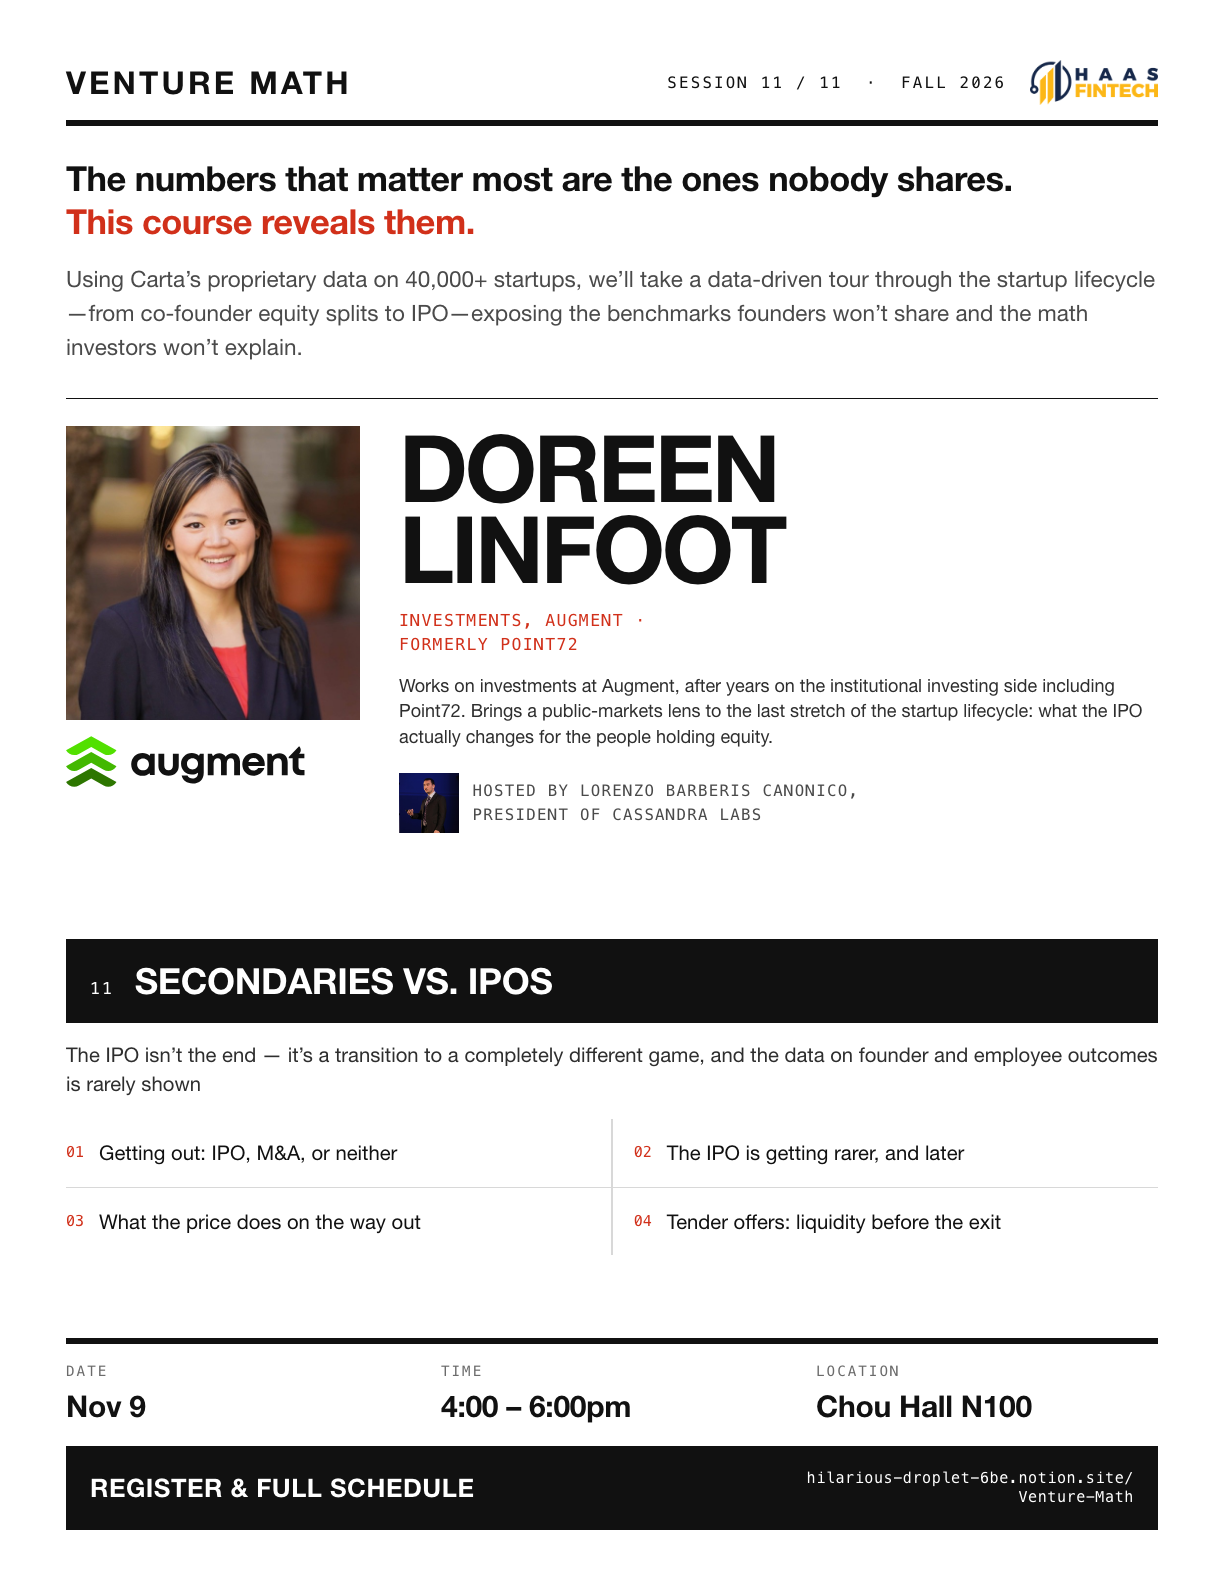
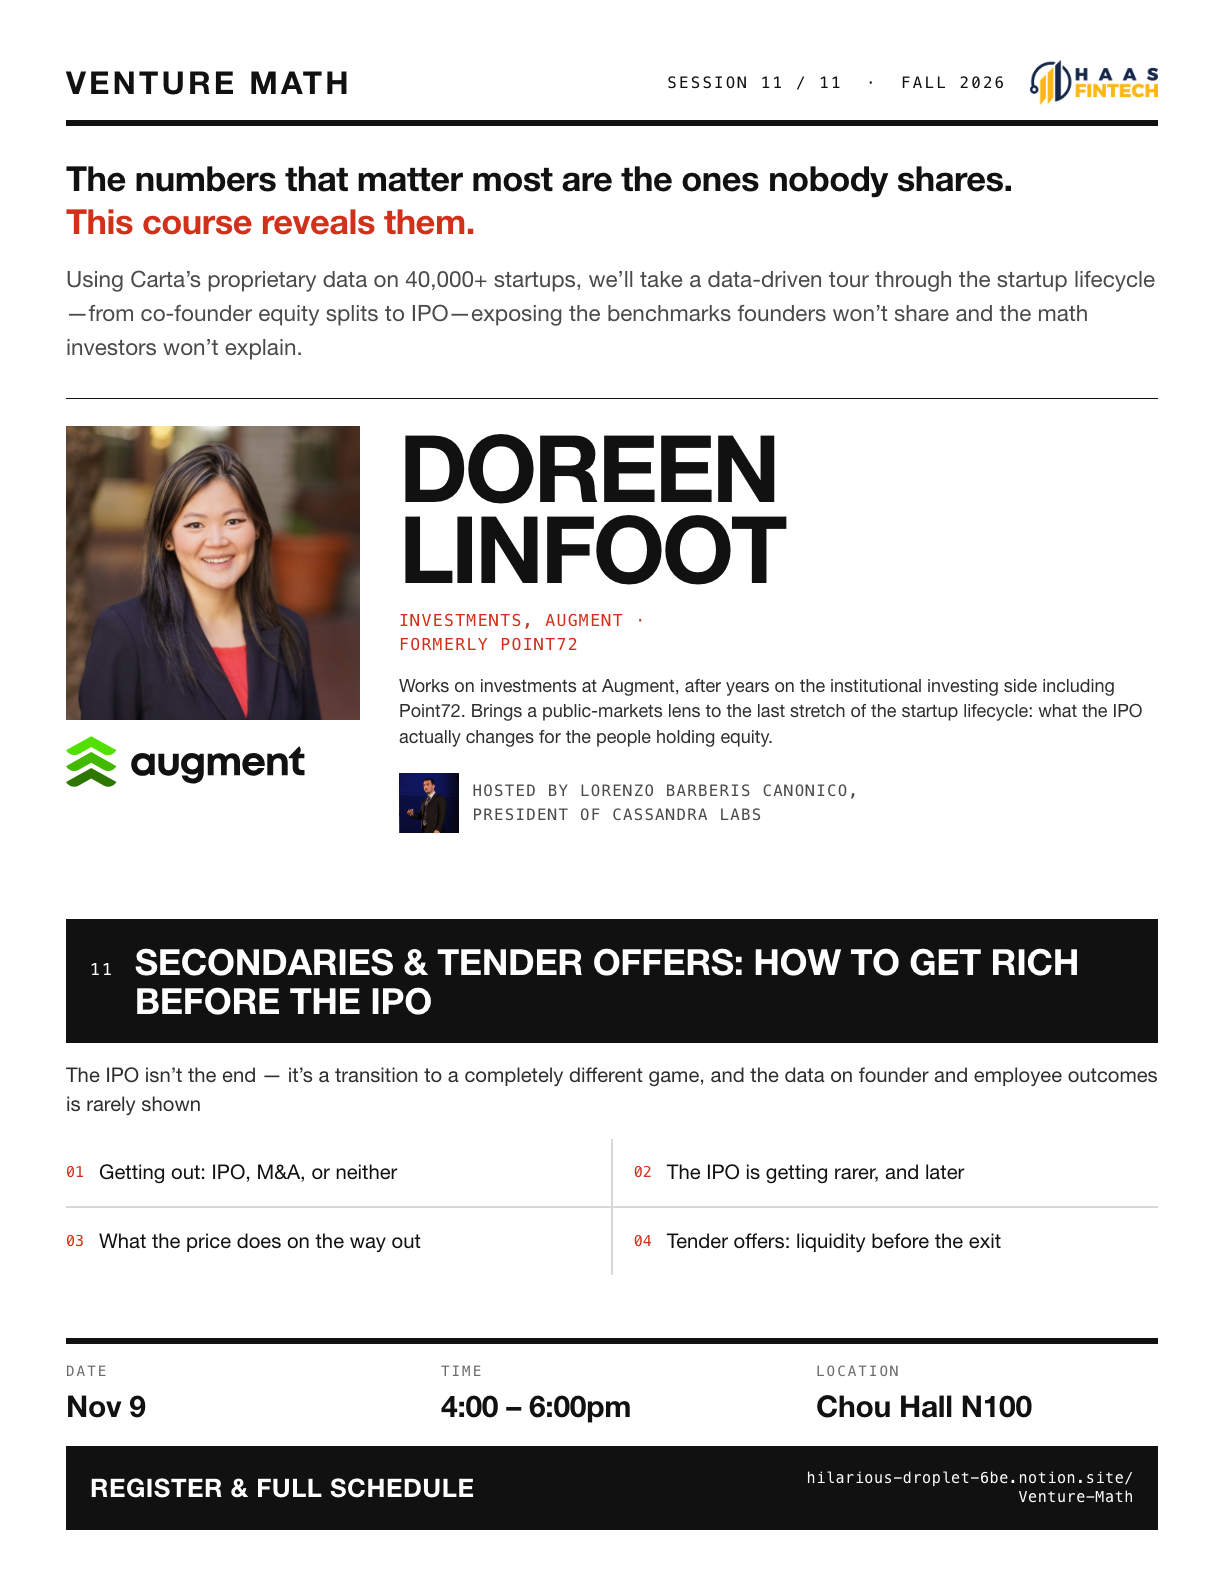
Retitle Doreen Linfoot session: Secondaries & Tender Offers: How to Get Rich Before the IPO

Changed region(s): [[0.031, 0.5568, 0.9624, 0.8043], [0.4967, 0.7115, 0.8072, 0.8043]]

diff --git a/fliers/11-doreen-linfoot.html b/fliers/11-doreen-linfoot.html
@@ -9,11 +9,11 @@
      Twitter/X unfurls into a card with the poster image. Absolute URLs are required —
      scrapers ignore relative paths and data: URIs. Generated by build.py. -->
 <link rel="canonical" href="https://venturemath.xyz/fliers/11-doreen-linfoot.html">
-<meta name="description" content="Secondaries vs. IPOs · Nov 9 — The IPO isn’t the end — it’s a transition to a completely different game, and the data on founder and employee outcomes is rarely shown">
+<meta name="description" content="Secondaries &amp; Tender Offers: How to Get Rich Before the IPO · Nov 9 — The IPO isn’t the end — it’s a transition to a completely different game, and the data on founder and employee outcomes is rarely…">
 <meta property="og:type" content="website">
 <meta property="og:site_name" content="Venture Math">
 <meta property="og:title" content="Doreen Linfoot — Venture Math">
-<meta property="og:description" content="Secondaries vs. IPOs · Nov 9 — The IPO isn’t the end — it’s a transition to a completely different game, and the data on founder and employee outcomes is rarely shown">
+<meta property="og:description" content="Secondaries &amp; Tender Offers: How to Get Rich Before the IPO · Nov 9 — The IPO isn’t the end — it’s a transition to a completely different game, and the data on founder and employee outcomes is rarely…">
 <meta property="og:url" content="https://venturemath.xyz/fliers/11-doreen-linfoot.html">
 <meta property="og:image" content="https://venturemath.xyz/fliers/11-doreen-linfoot.png">
 <meta property="og:image:width" content="1224">
@@ -21,7 +21,7 @@
 <meta property="og:image:alt" content="Doreen Linfoot — Venture Math">
 <meta name="twitter:card" content="summary_large_image">
 <meta name="twitter:title" content="Doreen Linfoot — Venture Math">
-<meta name="twitter:description" content="Secondaries vs. IPOs · Nov 9 — The IPO isn’t the end — it’s a transition to a completely different game, and the data on founder and employee outcomes is rarely shown">
+<meta name="twitter:description" content="Secondaries &amp; Tender Offers: How to Get Rich Before the IPO · Nov 9 — The IPO isn’t the end — it’s a transition to a completely different game, and the data on founder and employee outcomes is rarely…">
 <meta name="twitter:image" content="https://venturemath.xyz/fliers/11-doreen-linfoot.png">
 
 <style>
@@ -132,7 +132,7 @@
 
   <div class="session-bar">
     <span class="mono session-num">11</span>
-    <span class="session-title">Secondaries vs. IPOs</span>
+    <span class="session-title">Secondaries &amp; Tender Offers: How to Get Rich Before the IPO</span>
   </div>
 
   <div class="topic-detail">The IPO isn’t the end — it’s a transition to a completely different game, and the data on founder and employee outcomes is rarely shown</div>

diff --git a/index.html b/index.html
@@ -401,7 +401,7 @@
     <li class="s reveal" style="--i:11">
       <div class="when"><span class="d">Nov 9</span><span class="t">4:00 – 6:00pm</span></div>
       <div class="body">
-        <p class="topic">Secondaries vs. IPOs</p>
+        <p class="topic">Secondaries &amp; Tender Offers: How to Get Rich Before the IPO</p>
         <p class="detail">The IPO isn’t the end — it’s a transition to a completely different game, and the data on founder and employee outcomes is rarely shown</p>
         <div class="guest"><a class="avatar-link" href="https://www.linkedin.com/in/doreenlfoot/" target="_blank" rel="noopener noreferrer" aria-label="Doreen Linfoot on LinkedIn"><img class="avatar" src="assets/guest-doreen-linfoot.jpg" alt="Doreen Linfoot" loading="lazy" width="60" height="60"></a><div class="who"><div class="name"><a href="https://www.linkedin.com/in/doreenlfoot/" target="_blank" rel="noopener noreferrer" aria-label="Doreen Linfoot on LinkedIn">Doreen Linfoot</a></div><div class="role">Investments, Augment</div></div><span class="logo-plate"><img src="assets/logo-augment.svg" alt="Augment" loading="lazy"></span></div>
       </div>

diff --git a/sheets/11-doreen-linfoot.html b/sheets/11-doreen-linfoot.html
@@ -3,7 +3,7 @@
 <head>
 <meta charset="utf-8">
 <meta name="viewport" content="width=device-width,initial-scale=1">
-<title>Secondaries vs. IPOs &#8212; Venture Math</title>
+<title>Secondaries &amp; Tender Offers: How to Get Rich Before the IPO &#8212; Venture Math</title>
 <link rel="preconnect" href="https://fonts.googleapis.com">
 <link rel="preconnect" href="https://fonts.gstatic.com" crossorigin>
 <link href="https://fonts.googleapis.com/css2?family=Inter:wght@400;500;600;700&display=swap" rel="stylesheet">
@@ -110,7 +110,7 @@
   <div class="brand">
     <div class="l">
       <p class="eyebrow">Venture Math &#183; Fall 2026</p>
-      <h1>Secondaries vs. IPOs: how you get out, and at what price</h1>
+      <h1>Secondaries &amp; tender offers: how to get rich before the IPO</h1>
     </div>
     <div class="r">Session 11 &#183; Nov 9 &#183; <b>Doreen Linfoot</b> (Augment)<br>Data: <b>PitchBook-NVCA</b>, <b>Jay Ritter</b>, <b>Renaissance</b>, <b>Carta</b>, <b>SEC filings</b> &#183; as of Nov 6, 2026</div>
   </div>
